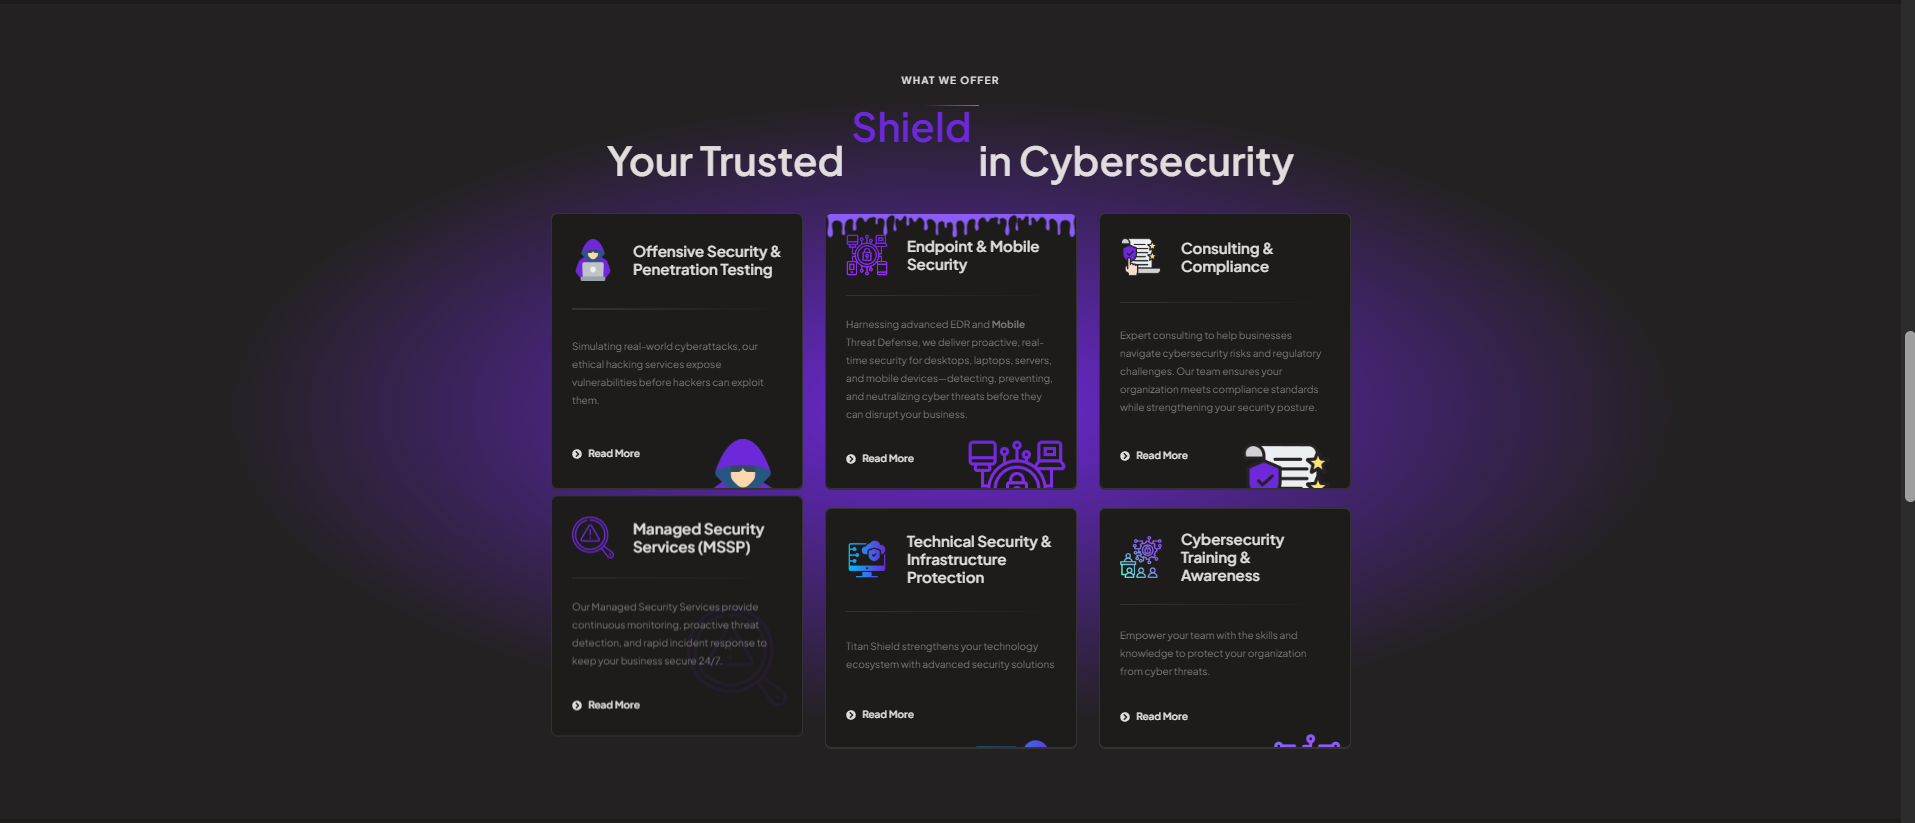
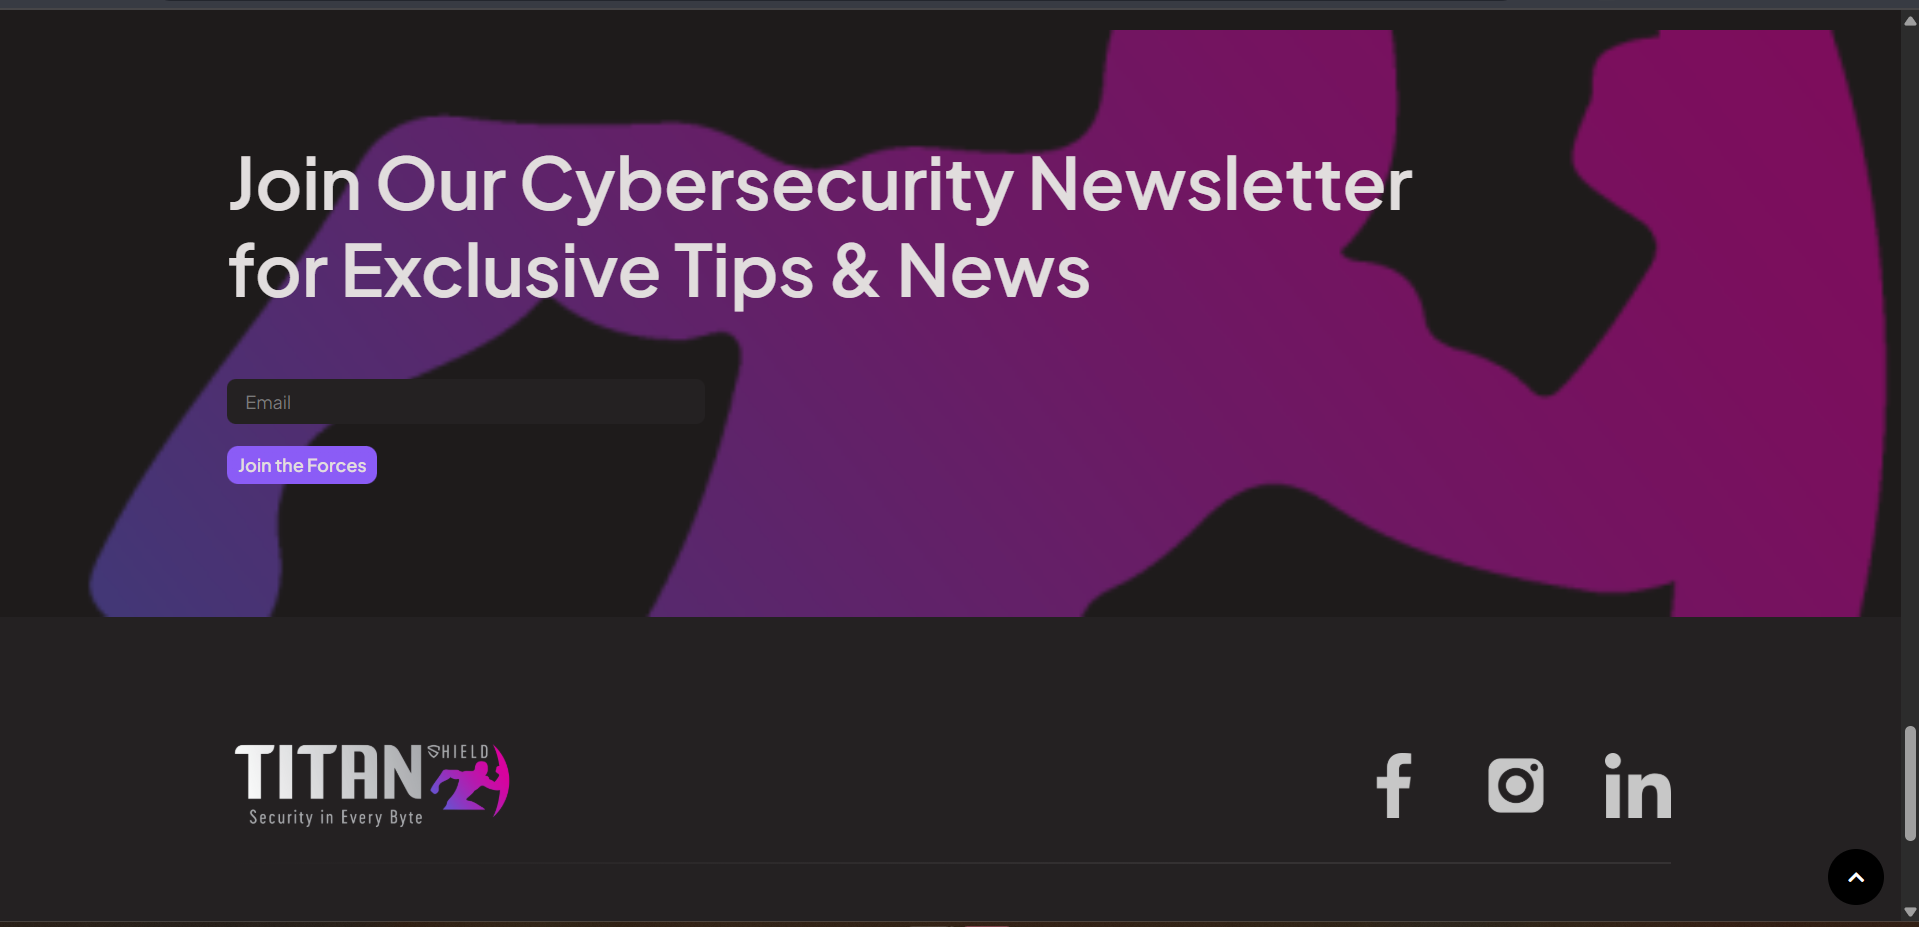
feat: Add Why TITAN section, scroll-to-top button, and newsletter parallax effect
- Created new Why TITAN section with 2x2 grid layout
  - Expert-Led Security card (1 col)
  - Comprehensive Protection Strategies with animated progress bars (2 cols)
  - 24/7 Security Operations card (2 cols)
  - Tailored Solutions card (1 col)
- Added animated progress bars with scroll-triggered animations
- Applied bounce animation to "TITAN" text (reduced amplitude by 20%)
- Reduced second row card heights for compact design

- Added scroll-to-top button component
  - Fixed position in bottom right corner
  - Appears after scrolling 300px
  - Smooth scroll animation to top
  - Purple styling with hover effects

- Redesigned newsletter section with parallax background
  - Fixed background layer using Next.js Image for SEO optimization
  - Parallax scroll effect with logo background
  - Larger heading text taking more space
  - Stacked form layout (input above button)
  - Simplified button design without scale/glow effects
  - Dark overlay for text readability

- Replaced old StatsSection with WhyTitan component
- Copied newsletter and why-titan assets to public directory

🤖 Generated with [Claude Code](https://claude.com/claude-code)

diff --git a/titan-shield/components/sections/why-titan.tsx b/titan-shield/components/sections/why-titan.tsx
@@ -1,0 +1,147 @@
+"use client";
+
+import { useEffect, useRef, useState } from "react";
+import Image from "next/image";
+
+interface ProgressBarProps {
+  label: string;
+  percentage: number;
+  delay?: number;
+}
+
+function ProgressBar({ label, percentage, delay = 0 }: ProgressBarProps) {
+  const [width, setWidth] = useState(0);
+  const barRef = useRef<HTMLDivElement>(null);
+
+  useEffect(() => {
+    const observer = new IntersectionObserver(
+      (entries) => {
+        entries.forEach((entry) => {
+          if (entry.isIntersecting) {
+            setTimeout(() => {
+              setWidth(percentage);
+            }, delay);
+            observer.disconnect();
+          }
+        });
+      },
+      { threshold: 0.3 }
+    );
+
+    if (barRef.current) {
+      observer.observe(barRef.current);
+    }
+
+    return () => observer.disconnect();
+  }, [percentage, delay]);
+
+  return (
+    <div ref={barRef} className="space-y-2">
+      <div className="flex items-center justify-between">
+        <span className="text-gray-300 text-sm md:text-base">{label}</span>
+        <span className="text-white text-sm md:text-base font-medium">{percentage}%</span>
+      </div>
+      <div className="w-full h-3 bg-gray-800/50 rounded-full overflow-hidden">
+        <div
+          className="h-full bg-gradient-to-r from-purple-600 to-purple-500 rounded-full transition-all duration-1000 ease-out"
+          style={{ width: `${width}%` }}
+        />
+      </div>
+    </div>
+  );
+}
+
+export function WhyTitan() {
+  return (
+    <section className="relative py-24 md:py-28 bg-[#0c0c0f] overflow-hidden">
+      <div className="mx-auto max-w-7xl px-6 md:px-8">
+        {/* Desktop: 3-column grid with row spans */}
+        <div className="grid grid-cols-1 lg:grid-cols-3 gap-6 md:gap-8">
+
+          {/* Card 1: Expert-Led Security (1 column) */}
+          <div className="lg:col-span-1 bg-[#111118] rounded-2xl overflow-hidden border border-gray-800/30">
+            <div className="relative w-full aspect-video">
+              <Image
+                src="/assets/expert-led.webp"
+                alt="Expert-Led Security"
+                fill
+                className="object-cover"
+              />
+            </div>
+            <div className="p-8">
+              <h3 className="text-white text-xl md:text-2xl font-semibold mb-3">
+                Expert-Led Security
+              </h3>
+              <p className="text-gray-300 text-sm md:text-base leading-relaxed">
+                A team of seasoned cybersecurity professionals with proven expertise.
+              </p>
+            </div>
+          </div>
+
+          {/* Card 2: WHY TITAN - Comprehensive Protection Strategies (2 columns) */}
+          <div className="lg:col-span-2 bg-[#11121a] rounded-2xl p-8 md:p-10 border border-purple-500/20 shadow-lg shadow-purple-500/10">
+            {/* Eyebrow + Title */}
+            <div className="mb-8">
+              <div className="flex items-center gap-3 mb-4">
+                <div className="h-[2px] w-12 bg-purple-600" />
+                <span className="text-gray-400 text-xs uppercase tracking-[0.2em]">WHY</span>
+                <span className="text-purple-500 text-xs uppercase tracking-[0.2em] font-semibold inline-block animate-[bounce-shield_6s_ease-in-out_infinite]">TITAN</span>
+              </div>
+              <h2 className="text-white text-3xl md:text-4xl font-bold leading-tight">
+                Comprehensive Protection Strategies
+              </h2>
+            </div>
+
+            {/* Progress Bars */}
+            <div className="space-y-6">
+              <ProgressBar label="Trusted Defense" percentage={98} delay={200} />
+              <ProgressBar label="Digital Shield" percentage={85} delay={400} />
+              <ProgressBar label="Resilient Protection" percentage={90} delay={600} />
+            </div>
+          </div>
+
+          {/* Card 3: 24/7 Security Operations (spans 2 columns on desktop) */}
+          <div className="lg:col-span-2 bg-[#111118] rounded-2xl overflow-hidden border border-gray-800/30 lg:h-80">
+            <div className="relative w-full aspect-video lg:h-48">
+              <Image
+                src="/assets/security-operations.webp"
+                alt="24/7 Security Operations"
+                fill
+                className="object-cover"
+              />
+            </div>
+            <div className="p-6">
+              <h3 className="text-white text-lg md:text-xl font-semibold mb-2">
+                24/7 Security Operations
+              </h3>
+              <p className="text-gray-300 text-sm leading-relaxed">
+                Round-the-clock monitoring and rapid response to emerging threats.
+              </p>
+            </div>
+          </div>
+
+          {/* Card 4: Tailored Solutions (1 column) */}
+          <div className="bg-[#111118] rounded-2xl overflow-hidden border border-gray-800/30 flex flex-col lg:h-80">
+            <div className="p-6">
+              <h3 className="text-white text-lg md:text-xl font-semibold mb-2">
+                Tailored Solutions
+              </h3>
+              <p className="text-gray-300 text-sm leading-relaxed">
+                Custom strategies that align with your business needs.
+              </p>
+            </div>
+            <div className="relative w-full flex-1 min-h-0">
+              <Image
+                src="/assets/expert-led.webp"
+                alt="Tailored Solutions"
+                fill
+                className="object-cover"
+              />
+            </div>
+          </div>
+
+        </div>
+      </div>
+    </section>
+  );
+}

diff --git a/titan-shield/components/sections/newsletter-section.tsx b/titan-shield/components/sections/newsletter-section.tsx
@@ -1,9 +1,7 @@
 "use client";
 
 import { useState } from "react";
-import { Button } from "@/components/ui/button";
-import { Input } from "@/components/ui/input";
-import { Mail, CheckCircle } from "lucide-react";
+import Image from "next/image";
 
 export function NewsletterSection() {
   const [email, setEmail] = useState("");
@@ -11,7 +9,7 @@ export function NewsletterSection() {
 
   const handleSubmit = (e: React.FormEvent) => {
     e.preventDefault();
-    // TODO: Implement newsletter subscription logic in Phase 3
+    // TODO: Implement newsletter subscription logic
     console.log("Newsletter subscription:", email);
     setIsSubmitted(true);
     setEmail("");
@@ -21,45 +19,67 @@ export function NewsletterSection() {
   };
 
   return (
-    <section className="py-20 bg-brand-dark border-t border-brand-dark-light">
-      <div className="container mx-auto px-4">
-        <div className="max-w-3xl mx-auto text-center">
-          <div className="inline-flex items-center justify-center w-16 h-16 rounded-full bg-brand-purple/10 mb-6">
-            <Mail className="h-8 w-8 text-brand-purple" />
-          </div>
+    <section className="relative min-h-[400px] flex items-center overflow-hidden">
+      {/* Fixed parallax background */}
+      <div className="fixed inset-0 -z-10">
+        <Image
+          src="/assets/newsletter-bg.png"
+          alt="Titan Shield newsletter background with cybersecurity branding"
+          fill
+          className="object-cover"
+          priority
+          quality={90}
+        />
+        {/* Dark overlay for text readability */}
+        <div className="absolute inset-0 bg-black/50" />
+      </div>
 
-          <h2 className="text-3xl md:text-4xl font-bold mb-4">
-            Stay Updated on Cybersecurity Threats
+      {/* Scrolling content */}
+      <div className="relative z-10 w-full py-16 md:py-20">
+        <div className="mx-auto max-w-6xl px-6 md:px-8">
+          {/* Heading */}
+          <h2 className="text-4xl md:text-5xl lg:text-7xl font-bold text-white mb-8 leading-tight max-w-5xl">
+            Join Our Cybersecurity Newsletter
+            <br />
+            <span className="text-white/90">for Exclusive Tips & News</span>
           </h2>
-          <p className="text-gray-400 text-lg mb-8">
-            Get the latest security insights, threat intelligence, and best
-            practices delivered to your inbox monthly.
-          </p>
 
+          {/* Form */}
           {isSubmitted ? (
-            <div className="flex items-center justify-center gap-2 text-green-400 font-semibold">
-              <CheckCircle className="h-5 w-5" />
-              <span>Thank you for subscribing!</span>
+            <div className="flex items-center gap-3 text-green-400 text-lg font-semibold bg-green-400/10 border border-green-400/30 rounded-lg px-6 py-4 max-w-md">
+              <svg
+                className="w-6 h-6"
+                fill="none"
+                stroke="currentColor"
+                viewBox="0 0 24 24"
+              >
+                <path
+                  strokeLinecap="round"
+                  strokeLinejoin="round"
+                  strokeWidth={2}
+                  d="M9 12l2 2 4-4m6 2a9 9 0 11-18 0 9 9 0 0118 0z"
+                />
+              </svg>
+              <span>Thank you for joining!</span>
             </div>
           ) : (
-            <form onSubmit={handleSubmit} className="flex flex-col sm:flex-row gap-4 max-w-xl mx-auto">
-              <Input
+            <form onSubmit={handleSubmit} className="flex flex-col gap-4 max-w-3xl">
+              <input
                 type="email"
-                placeholder="Enter your email address"
+                placeholder="Email"
                 value={email}
                 onChange={(e) => setEmail(e.target.value)}
                 required
-                className="flex-1"
+                className="w-full px-6 py-3.5 rounded-lg bg-black/40 backdrop-blur-sm border border-white/20 text-white placeholder:text-gray-400 focus:outline-none focus:ring-2 focus:ring-purple-500 focus:border-transparent transition-all"
               />
-              <Button type="submit" size="lg" className="sm:w-auto">
-                Subscribe
-              </Button>
+              <button
+                type="submit"
+                className="w-fit px-8 py-3.5 rounded-lg bg-purple-600 hover:bg-purple-500 text-white font-medium transition-all duration-200"
+              >
+                Join the Forces
+              </button>
             </form>
           )}
-
-          <p className="text-sm text-gray-500 mt-4">
-            We respect your privacy. Unsubscribe at any time.
-          </p>
         </div>
       </div>
     </section>

diff --git a/titan-shield/app/globals.css b/titan-shield/app/globals.css
@@ -144,41 +144,41 @@
   0%, 100% {
     transform: translateY(0);
   }
-  /* First bounce - full amplitude */
+  /* First bounce - full amplitude (reduced by 20%) */
   5% {
-    transform: translateY(-20px);
+    transform: translateY(-16px);
   }
   10% {
-    transform: translateY(20px);
+    transform: translateY(16px);
   }
   15% {
-    transform: translateY(-20px);
+    transform: translateY(-16px);
   }
   20% {
-    transform: translateY(20px);
+    transform: translateY(16px);
   }
-  /* Second bounce - half amplitude */
+  /* Second bounce - half amplitude (reduced by 20%) */
   25% {
-    transform: translateY(-10px);
+    transform: translateY(-8px);
   }
   30% {
-    transform: translateY(10px);
+    transform: translateY(8px);
   }
   35% {
-    transform: translateY(-10px);
+    transform: translateY(-8px);
   }
   40% {
-    transform: translateY(10px);
+    transform: translateY(8px);
   }
-  /* Third bounce - return to original */
+  /* Third bounce - return to original (reduced by 20%) */
   45% {
-    transform: translateY(-5px);
+    transform: translateY(-4px);
   }
   50% {
-    transform: translateY(5px);
+    transform: translateY(4px);
   }
   55% {
-    transform: translateY(-5px);
+    transform: translateY(-4px);
   }
   60% {
     transform: translateY(0);

diff --git a/titan-shield/components/ui/scroll-to-top.tsx b/titan-shield/components/ui/scroll-to-top.tsx
@@ -1,0 +1,43 @@
+"use client";
+
+import { useEffect, useState } from "react";
+import { ArrowUp } from "lucide-react";
+
+export function ScrollToTop() {
+  const [isVisible, setIsVisible] = useState(false);
+
+  useEffect(() => {
+    const toggleVisibility = () => {
+      if (window.scrollY > 300) {
+        setIsVisible(true);
+      } else {
+        setIsVisible(false);
+      }
+    };
+
+    window.addEventListener("scroll", toggleVisibility);
+
+    return () => window.removeEventListener("scroll", toggleVisibility);
+  }, []);
+
+  const scrollToTop = () => {
+    window.scrollTo({
+      top: 0,
+      behavior: "smooth",
+    });
+  };
+
+  return (
+    <>
+      {isVisible && (
+        <button
+          onClick={scrollToTop}
+          className="fixed bottom-8 right-8 z-50 flex items-center justify-center w-12 h-12 rounded-full bg-purple-600 hover:bg-purple-700 text-white shadow-lg hover:shadow-purple-500/50 transition-all duration-300 hover:scale-110"
+          aria-label="Scroll to top"
+        >
+          <ArrowUp className="w-5 h-5" />
+        </button>
+      )}
+    </>
+  );
+}

diff --git a/titan-shield/app/page.tsx b/titan-shield/app/page.tsx
@@ -2,7 +2,7 @@ import { HeroSection } from "@/components/sections/hero-section";
 import { TrustedAlliances } from "@/components/sections/trusted-alliances";
 import { AboutPreview } from "@/components/sections/about-preview";
 import { ServicesGrid } from "@/components/sections/services-grid";
-import { StatsSection } from "@/components/sections/stats-section";
+import { WhyTitan } from "@/components/sections/why-titan";
 import { NewsletterSection } from "@/components/sections/newsletter-section";
 
 export default function HomePage() {
@@ -12,7 +12,7 @@ export default function HomePage() {
       <TrustedAlliances />
       <AboutPreview />
       <ServicesGrid />
-      <StatsSection />
+      <WhyTitan />
       <NewsletterSection />
     </>
   );

diff --git a/titan-shield/app/layout.tsx b/titan-shield/app/layout.tsx
@@ -1,6 +1,7 @@
 import type { Metadata } from "next";
 import { Navbar } from "@/components/layout/navbar";
 import { Footer } from "@/components/layout/footer";
+import { ScrollToTop } from "@/components/ui/scroll-to-top";
 import "./globals.css";
 
 export const metadata: Metadata = {
@@ -52,6 +53,7 @@ export default function RootLayout({
         <Navbar />
         <main className="min-h-screen">{children}</main>
         <Footer />
+        <ScrollToTop />
       </body>
     </html>
   );
